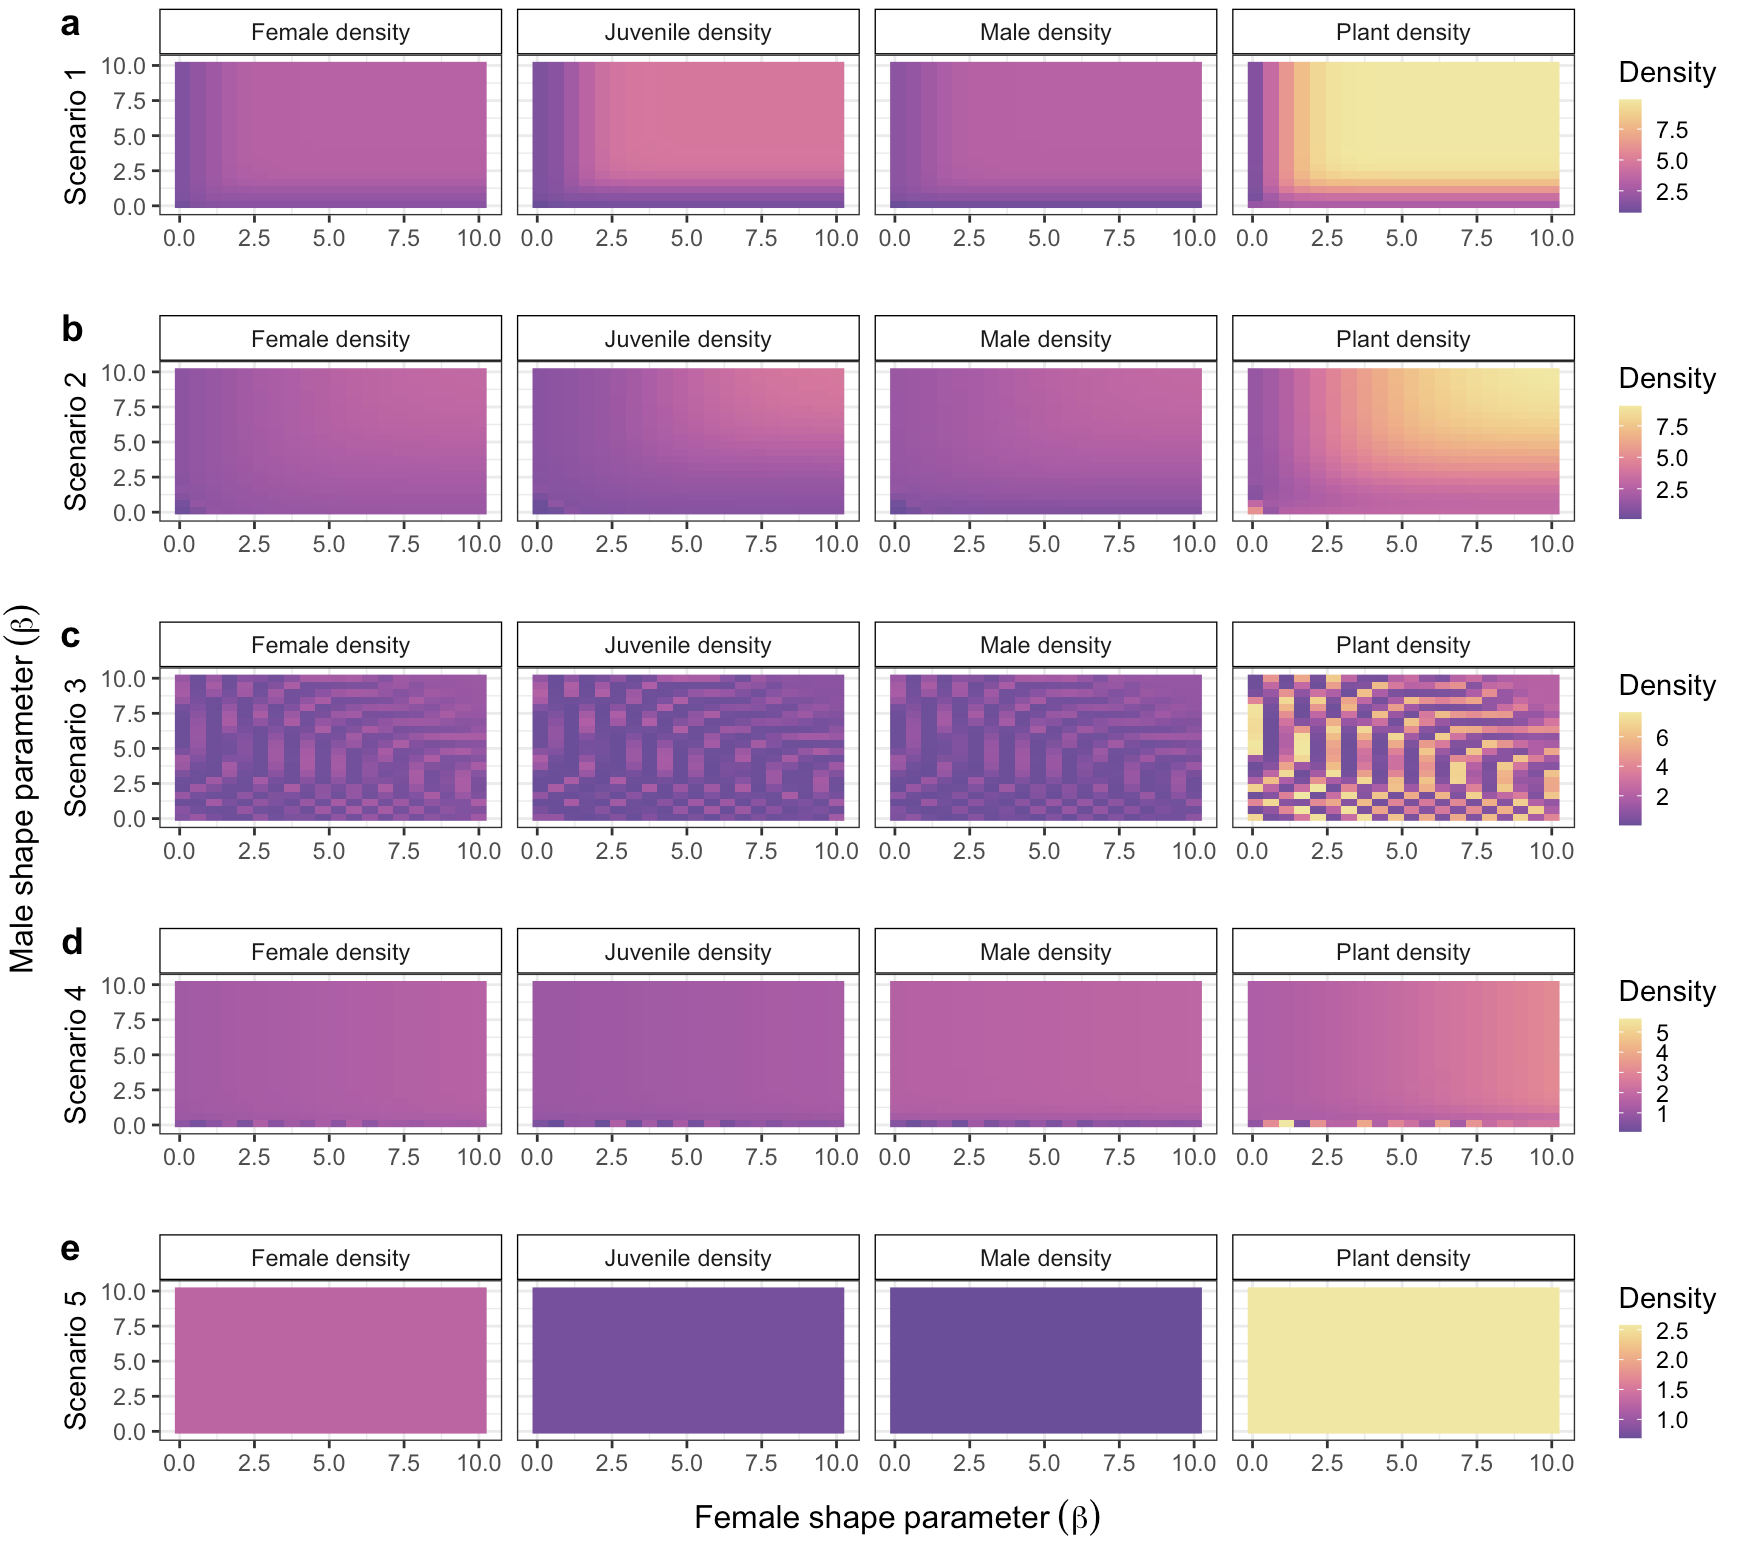
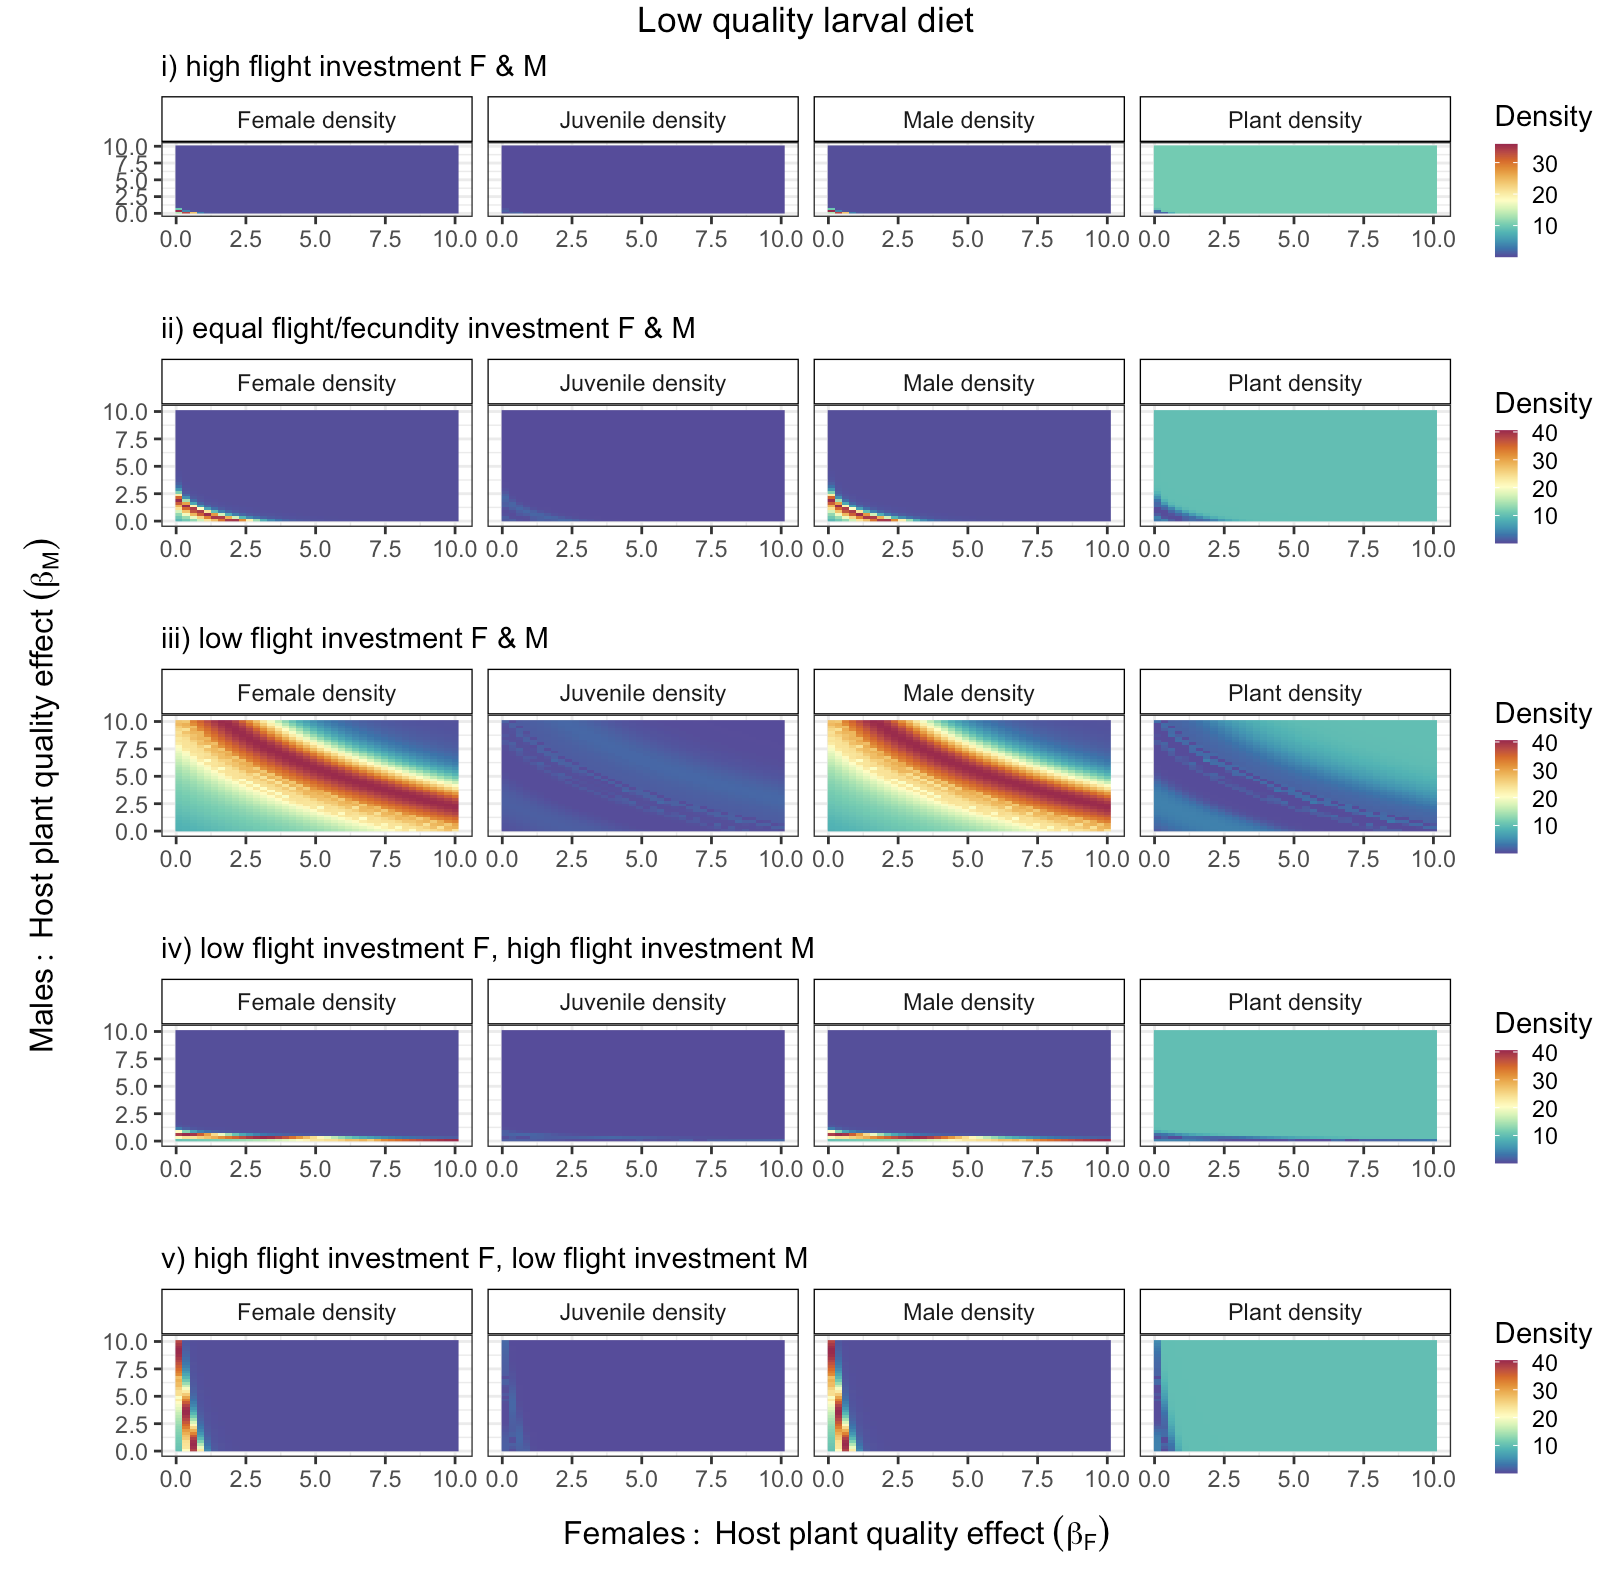
April commit
Misc. updates

diff --git a/index.html b/index.html
@@ -78,9 +78,10 @@
                             <h3 class="mb-0">Ph.D., Ecology & Evolutionary Biology</h3>
                             <div class="subheading mb-1">The University of Arizona</div>
                             <div></div>
-                            <p>Committee: Drs. Judith Bronstein (Advisor), Goggy Davidowitz, Brian Enquist, <br> Christopher Moore (CSUN), Priyanga Amarasekare (UCLA)</p>
+                            <p>Committee: Drs. Judith Bronstein (Advisor), Brian Enquist, Goggy Davidowitz,<br> Priyanga Amarasekare, Christopher Moore (CSUN)</p>
+                            <p>Dissertation: The Evolutionary Ecology of Mutualisms: Conceptual, Theoretical, and Empirical Advances <br> in Our Understanding Across Traits, Populations, and Species in a Changing World </p>
                         </div>
-                        <div class="flex-shrink-0"><span class="text-primary"> 2026 (Spring, anticipated) </span></div>
+                        <div class="flex-shrink-0"><span class="text-primary"> 2026 (Apr. 27) </span></div>
                     </div>
                     <div class="d-flex flex-column flex-md-row justify-content-between mb-4">
                         <div class="flex-grow-1">
@@ -216,7 +217,7 @@
                         <img src="assets/img/tpc2.png" alt="test" width = "310" height = "325"/> <div>Left-skewed thermal performance curves</div>
                         </div>
                         <div class="content_img">
-                        <img src="assets/img/temp.png" alt="test" width = "375" height = "325"/><div>The effect of wax surface area on thermal protection in Dactylopius spp. (Cruz et al., in prep)</div>
+                        <img src="assets/img/temp.png" alt="test" width = "375" height = "325"/><div>The effect of wax surface area on thermal protection in Dactylopius spp. (Cruz et al., in revision)</div>
                         </div>
                         </div>
                     </div>
@@ -229,7 +230,7 @@
                         <img src="assets/img/pic2.png" alt="test" width = "325" height = "275"/><div>Thermal reaction norms by family and population</div>
                         </div>
                         <div class="content_img">
-                        <img src="assets/img/pic3.png" alt="test" width = "325" height = "275"/><div>Flight/fecundity tradeoff functions</div>
+                        <img src="assets/img/pic3.png" alt="test" width = "325" height = "275"/><div>Fligh-fecundity tradeoff functional forms</div>
                         </div>
                         </div>
                     </div>
@@ -308,6 +309,9 @@
                         <div class="column">
                         <div class="content_img">
                         <img src="assets/img/pic20.png" alt="test" width = "275" height = "325"/><div>Phase plane stability analysis.</div>
+                        </div>
+                        <div class="content_img">
+                        <img src="assets/img/pic21.png" alt="test" width = "300" height = "300"/><div>Flight-fecundity bifurcation analysis and time-series.</div>
                         </div>
                         </div>
                     </div>
@@ -390,10 +394,13 @@
                         <script async src="https://badge.dimensions.ai/badge.js" charset="utf-8"></script>
                         
 
-
-                        
                         <div class="flex-grow-1">
                             <h3 class="mb-0">Refereed journal articles </h3>
+                            <div class="subheading mb-1">11</div>
+                            <div>
+                                <p><b> Cruz, A.</b>, Tigreros, N., Moore, C., Bronstein, J., Davidowitz, G. To breed or not to breed? Population dynamic consequences of flight-fecundity tradeoffs in Lepidoptera. (In prep.). Target journal: <b style='color:green !important;'><i>The American Naturalist</i></b>. 
+                                </p>
+                            </div>
                             <div class="subheading mb-1">10</div>
                             <div>
                                 <p><b> Cruz, A.</b> Live fast, age faster? Deriving the scaling relationship between metabolic rate and telomere shortening rate. (In prep). Target journal: <b style='color:green !important;'><i> Proceedings of the National Academy of Sciences</i></b>. 
@@ -406,7 +413,7 @@
                             </div>
                             <div class="subheading mb-1">8</div>
                             <div>
-                                <p><b> Cruz, A.</b>, Bronstein, J., Davidowitz, G. (In review). Thermal buffering in a sessile insect herbivore. <b style='color:green !important;'><i> Journal of Experimental Biology</i></b>. 
+                                <p><b> Cruz, A.</b>, Bronstein, J., Davidowitz, G. (In revision). Thermal buffering in a sessile insect herbivore. <b style='color:green !important;'><i> Journal of Experimental Biology</i></b>. 
                                 </p>
                             </div>
                             <div class="subheading mb-1">7</div>

diff --git a/css/styles.css b/css/styles.css
@@ -11484,3 +11484,16 @@ section.resume-section .resume-section-content {
   justify-content: flex-start;  /* Align badges to the left */
   gap: 10px;  /* Adds some space between the badges */
 }
+
+<style>
+.social-icon img {
+  width: 24px;
+  height: 24px;
+  vertical-align: middle;
+  transition: transform 0.2s ease;
+}
+
+.social-icon:hover img {
+  transform: scale(1.2);
+}
+</style>
